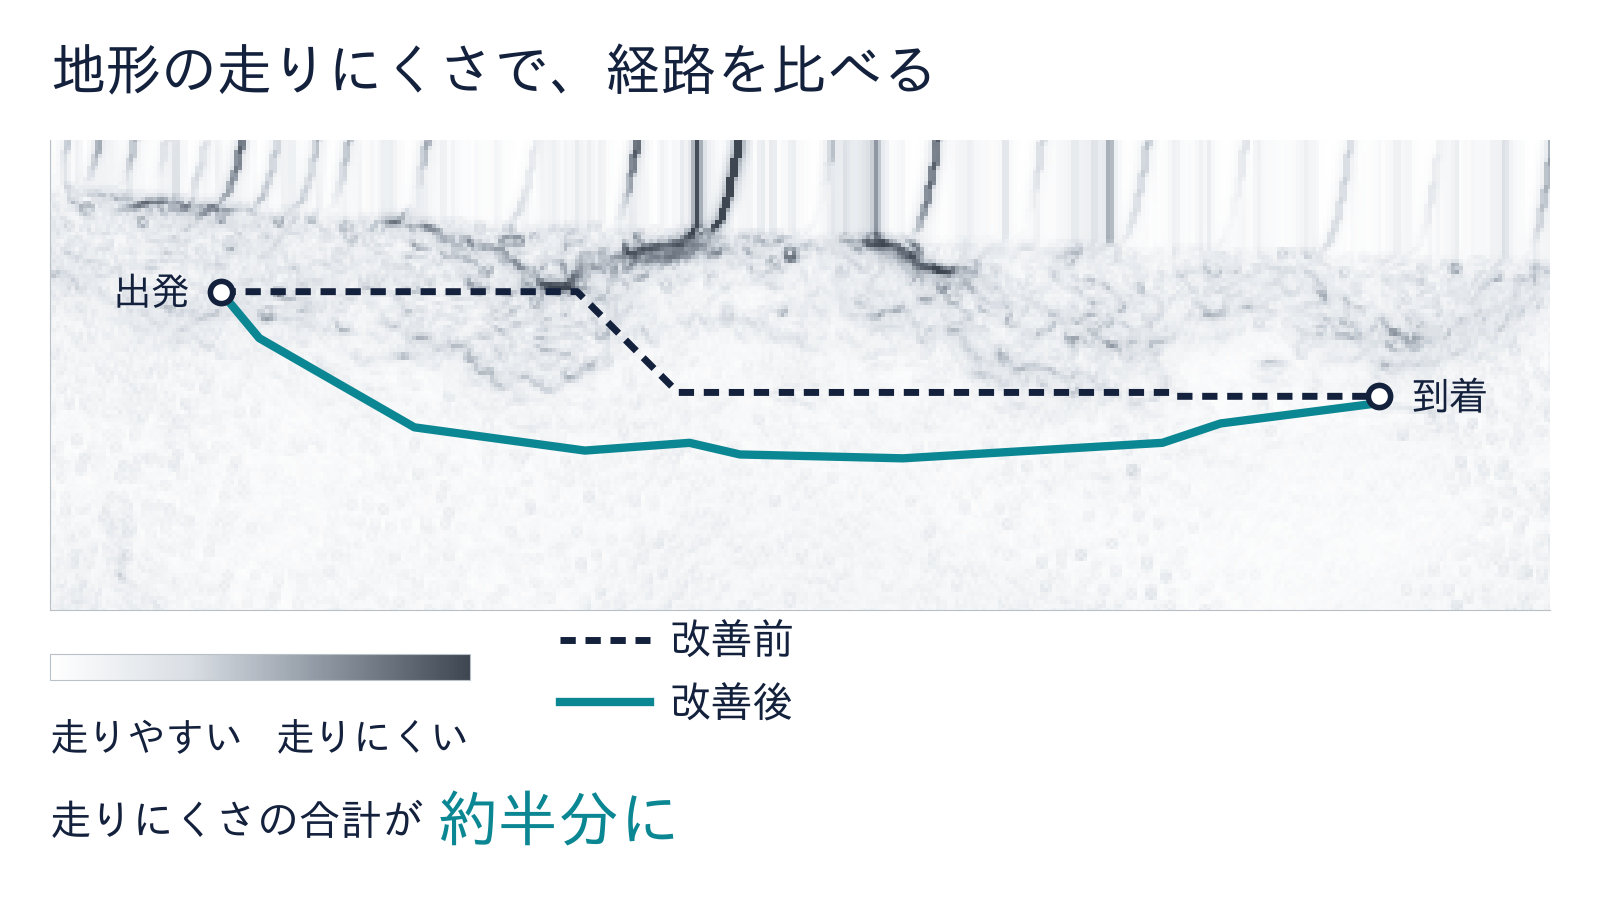
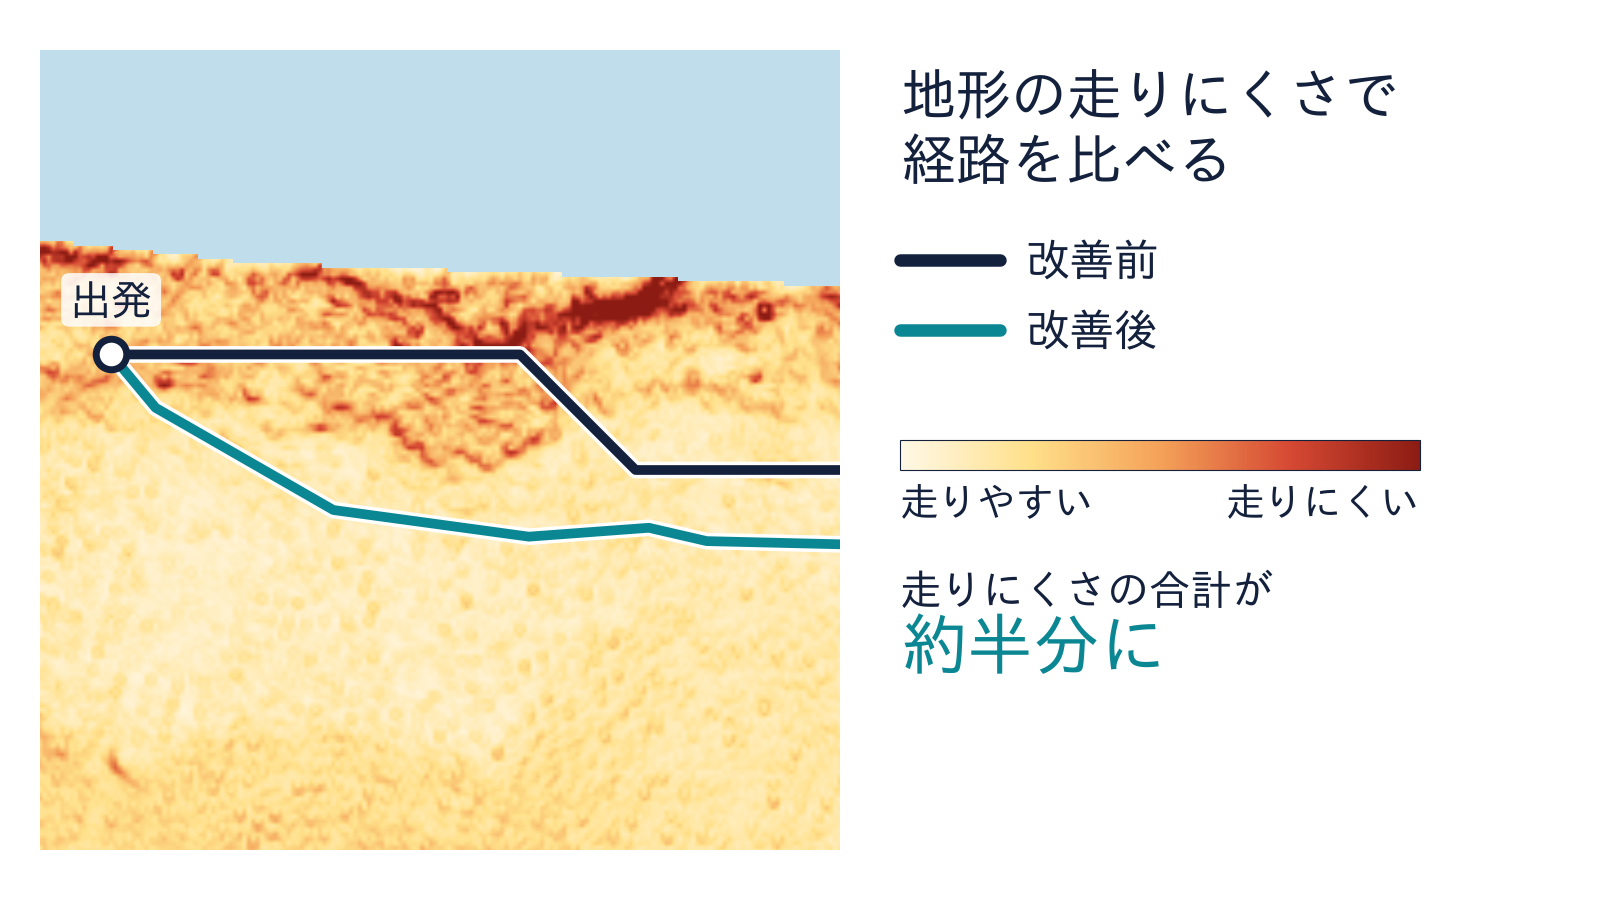
就活の動画用の図を、カラーの正方形の地図に作り直す
Claude-Session: https://claude.ai/code/session_01QT8idpGXJekKrrtatMhiAA

diff --git a/figures/sugihara_compare.py b/figures/sugihara_compare.py
@@ -56,60 +56,69 @@ def main():
     ratio = totals["TA*-S"] / totals["A*"]
     print(f"font={font}  走りにくさの合計  改善前 {totals['A*']:.3f}  改善後 {totals['TA*-S']:.3f}  比 {ratio:.3f}")
 
-    # 1600×900 px（16:9）、背景は白。右下の約 25%（x>1200, y>675 px）には何も置かない。
+    # 1600×900 px（16:9）、背景は白。左に正方形の地図、右上に文字。右下の約 25%（x>1200, y>675 px）には何も置かない。
     fig = plt.figure(figsize=(16, 9), dpi=100, facecolor="white")
+    px = lambda x, y, w, h: [x / 1600, 1 - (y + h) / 900, w / 1600, h / 900]
 
-    # 地図：経路の範囲（横に長い帯）に合わせた窓。上側の全幅に置く。
+    # 正方形の地図：2 つの経路が分かれて違いが大きい区間（出発から 90m 四方）に寄せる。
+    # 窓は地図の中に収める。経路全体の比べた結果（合計）は、右のひとことに書く。
     pts = np.vstack([(p["path"] + 0.5) * RESOLUTION for p in paths.values()])
-    x0, x1 = pts[:, 0].min() - 22, pts[:, 0].max() + 22
-    ax_w_px, ax_h_px = 1500, 470
-    yc = (pts[:, 1].min() + pts[:, 1].max()) / 2
-    half_h = (x1 - x0) * ax_h_px / ax_w_px / 2
-    y0, y1 = yc - half_h, yc + half_h
-    ax = fig.add_axes([50 / 1600, 1 - (140 + ax_h_px) / 900, ax_w_px / 1600, ax_h_px / 900])
+    side = 90.0
+    n_m = tm.shape[0] * RESOLUTION
+    start_xy = (paths["A*"]["path"][0] + 0.5) * RESOLUTION
+    lo = np.array([start_xy[0] - 8, (pts[:, 1].min() + pts[:, 1].max()) / 2 - side / 2])
+    lo = np.clip(lo, 0, n_m - side)
+    hi = lo + side
+    ax = fig.add_axes(px(40, 50, 800, 800))
     n = tm.shape[0]
-    cmap = LinearSegmentedColormap.from_list("difficulty", ["#FFFFFF", "#D9DEE4", "#8A939E", "#3E4652"])
-    image = ax.imshow(np.clip(tm.cost, 0, 1).T, origin="lower", extent=[0, n * RESOLUTION, 0, n * RESOLUTION],
-                      cmap=cmap, vmin=0, vmax=1, interpolation="nearest")
+    # 走りやすい（明るい砂色）→ 走りにくい（赤）。表示は 0.6 で頭打ち（それ以上は同じ赤）。
+    cmap = LinearSegmentedColormap.from_list("difficulty", ["#FFF8E7", "#FFE08A", "#F4A259", "#D64933", "#8C1C13"])
+    image = ax.imshow(np.clip(tm.cost, 0, 0.6).T, origin="lower", extent=[0, n * RESOLUTION, 0, n * RESOLUTION],
+                      cmap=cmap, vmin=0, vmax=0.6, interpolation="bilinear")
     before = (paths["A*"]["path"] + 0.5) * RESOLUTION
     after = (paths["TA*-S"]["path"] + 0.5) * RESOLUTION
-    ax.plot(before[:, 0], before[:, 1], color=NAVY, lw=5, ls=(0, (2.2, 1.4)), solid_capstyle="round")
-    ax.plot(after[:, 0], after[:, 1], color=TEAL, lw=6, solid_capstyle="round")
-    for xy, text, align in [(before[0], "出発", "right"), (before[-1], "到着", "left")]:
-        ax.plot(*xy, marker="o", ms=16, mfc="white", mec=NAVY, mew=4, ls="none", zorder=5)
-        ax.annotate(text, xy, xytext=(-22 if align == "right" else 22, 0), textcoords="offset points",
-                    ha=align, va="center", fontsize=28, color=NAVY, weight="bold")
-    ax.set_xlim(x0, x1)
-    ax.set_ylim(y0, y1)
-    ax.set_aspect("equal")  # 窓の縦横を軸の縦横に合わせてあるので、ゆがまない
+    # 海とデータのない所は水色（走らない場所）
+    sea = np.asarray(sc["water"] | sc["nodata"], bool)
+    ax.imshow(np.ma.masked_where(~sea.T, sea.T), origin="lower", extent=[0, n * RESOLUTION, 0, n * RESOLUTION],
+              cmap=LinearSegmentedColormap.from_list("sea", ["#BFDDEB", "#BFDDEB"]), vmin=0, vmax=1,
+              interpolation="nearest")
+    for line, color in [(before, NAVY), (after, TEAL)]:
+        ax.plot(line[:, 0], line[:, 1], color="white", lw=12, solid_capstyle="round", solid_joinstyle="round")
+        ax.plot(line[:, 0], line[:, 1], color=color, lw=7, solid_capstyle="round", solid_joinstyle="round")
+    for xy, text in [(before[0], "出発")]:
+        ax.plot(*xy, marker="o", ms=22, mfc="white", mec=NAVY, mew=5, ls="none", zorder=5)
+        ax.annotate(text, xy, xytext=(0, 26), textcoords="offset points", ha="center", va="bottom",
+                    fontsize=30, color=NAVY, weight="bold",
+                    bbox=dict(boxstyle="round,pad=0.2", fc="white", ec="none", alpha=0.85))
+    ax.set_xlim(lo[0], hi[0])
+    ax.set_ylim(lo[1], hi[1])
+    ax.set_aspect("equal")
     ax.set_xticks([])
     ax.set_yticks([])
     for spine in ax.spines.values():
-        spine.set_color("#B8C0C8")
+        spine.set_visible(False)
 
-    # 見出し（左上）
-    fig.text(50 / 1600, 1 - 70 / 900, "地形の走りにくさで、経路を比べる", fontsize=40, color=NAVY, weight="bold", va="center")
+    # 右上：見出し
+    fig.text(900 / 1600, 1 - 95 / 900, "地形の走りにくさで", fontsize=40, color=NAVY, weight="bold", va="center")
+    fig.text(900 / 1600, 1 - 160 / 900, "経路を比べる", fontsize=40, color=NAVY, weight="bold", va="center")
 
-    # 色の目盛り（地図の下、左側）
-    cax = fig.add_axes([50 / 1600, 1 - 680 / 900, 420 / 1600, 26 / 900])
-    bar = fig.colorbar(image, cax=cax, orientation="horizontal", ticks=[])
-    bar.outline.set_edgecolor("#B8C0C8")
-    fig.text(50 / 1600, 1 - 720 / 900, "走りやすい", fontsize=28, color=NAVY, va="top")
-    fig.text(470 / 1600, 1 - 720 / 900, "走りにくい", fontsize=28, color=NAVY, va="top", ha="right")
-
-    # 凡例（色の目盛りの右、中央より左）
-    lx, ly = 560, 640
-    for i, (label, color, style, lw) in enumerate([("改善前", NAVY, (0, (2.2, 1.4)), 5), ("改善後", TEAL, "-", 6)]):
-        y = 1 - (ly + i * 62) / 900
-        fig.add_artist(plt.Line2D([lx / 1600, (lx + 90) / 1600], [y, y], color=color, lw=lw, ls=style,
+    # 凡例
+    for i, (label, color) in enumerate([("改善前", NAVY), ("改善後", TEAL)]):
+        y = 1 - (260 + i * 70) / 900
+        fig.add_artist(plt.Line2D([900 / 1600, 1000 / 1600], [y, y], color=color, lw=9, solid_capstyle="round",
                                   transform=fig.transFigure))
-        fig.text((lx + 110) / 1600, y, label, fontsize=30, color=NAVY, va="center")
+        fig.text(1025 / 1600, y, label, fontsize=32, color=NAVY, va="center")
 
-    # 結果のひとこと（下の左、右下の 25% には入れない）
-    lead = fig.text(50 / 1600, 1 - 820 / 900, "走りにくさの合計が", fontsize=30, color=NAVY, va="center")
-    fig.canvas.draw()
-    lead_right = lead.get_window_extent().x1 / fig.bbox.width  # 文字の幅に合わせて、重ならないよう右に続ける
-    fig.text(lead_right + 12 / 1600, 1 - 820 / 900, "約半分に", fontsize=44, color=TEAL, weight="bold", va="center")
+    # 色の目盛り
+    cax = fig.add_axes(px(900, 440, 520, 30))
+    bar = fig.colorbar(image, cax=cax, orientation="horizontal", ticks=[])
+    bar.outline.set_edgecolor(NAVY)
+    fig.text(900 / 1600, 1 - 485 / 900, "走りやすい", fontsize=28, color=NAVY, va="top")
+    fig.text(1420 / 1600, 1 - 485 / 900, "走りにくい", fontsize=28, color=NAVY, va="top", ha="right")
+
+    # 結果のひとこと（右下の 25% より上）
+    fig.text(900 / 1600, 1 - 590 / 900, "走りにくさの合計が", fontsize=30, color=NAVY, va="center")
+    fig.text(900 / 1600, 1 - 645 / 900, "約半分に", fontsize=48, color=TEAL, weight="bold", va="center")
 
     OUT.parent.mkdir(parents=True, exist_ok=True)
     fig.savefig(OUT, dpi=100, facecolor="white")
